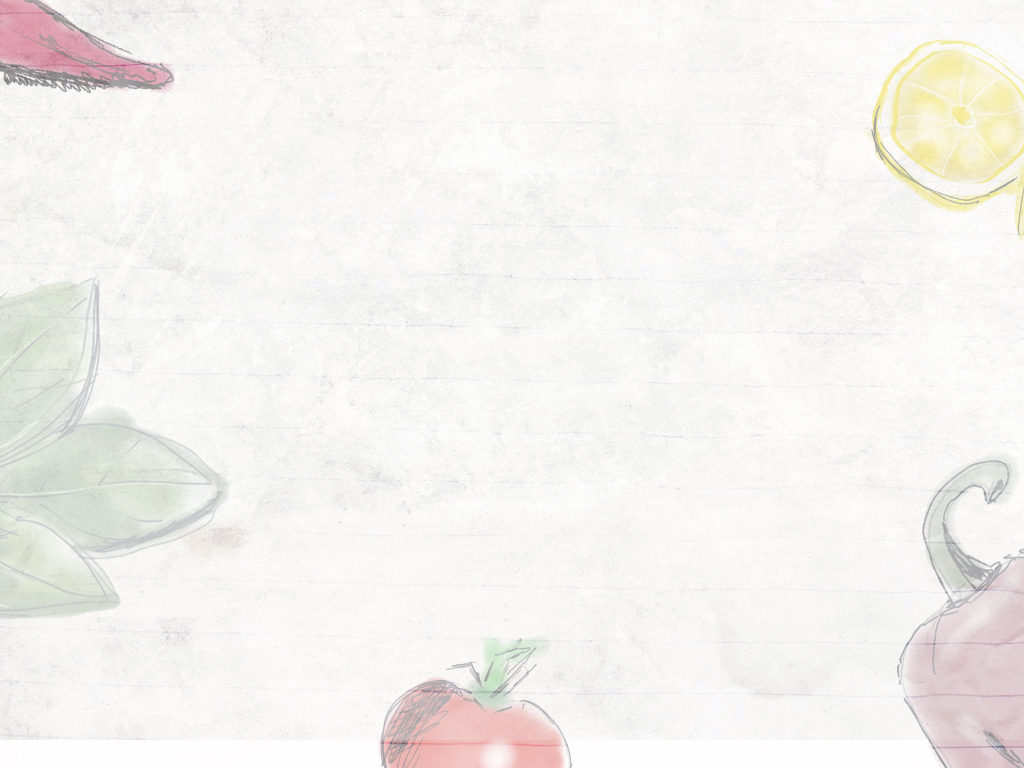
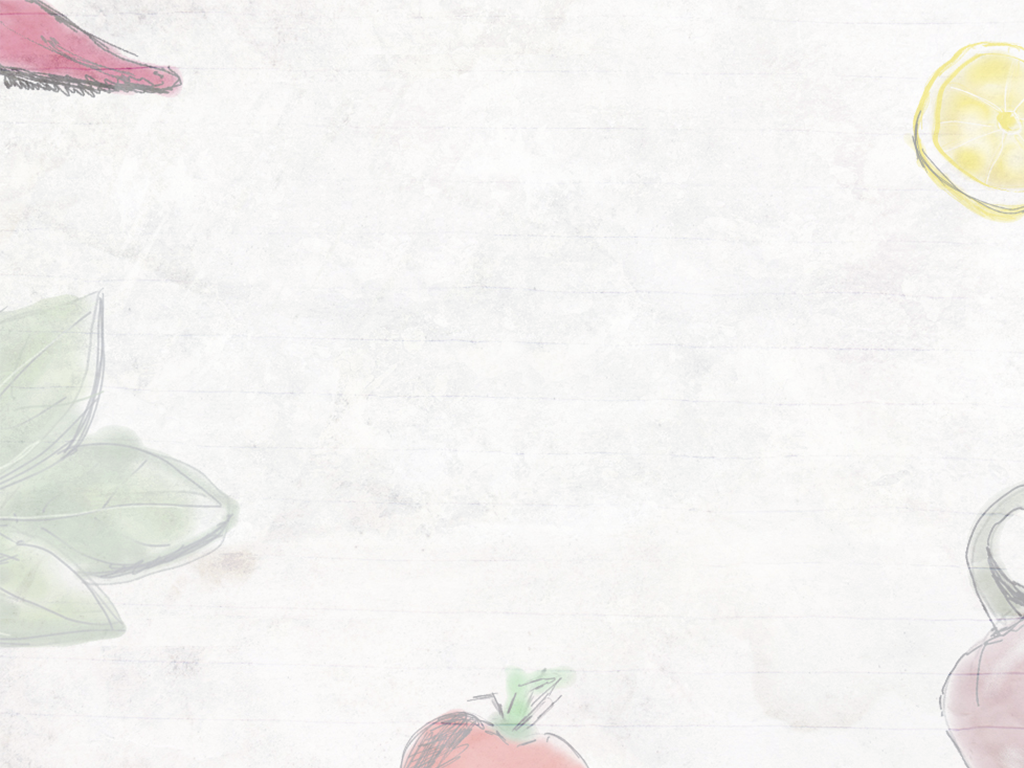
gaspacho media queries OK

diff --git a/web/gaspacho/bootstrap/css/bootstrap.css b/web/gaspacho/bootstrap/css/bootstrap.css
@@ -4,7 +4,7 @@
  * Licensed under MIT (https://github.com/twbs/bootstrap/blob/master/LICENSE)
  */
 /*! normalize.css v3.0.3 | MIT License | github.com/necolas/normalize.css */
-@media only screen and (device-width: 768px) and (device-height: 1024px) and (orientation : landscape) { 
+@media only screen and (device-width: 1024px) and (device-height: 768px) and (orientation : landscape) { 
 body {
 background-image: url("images/back_ipad_landscape.png");
 }
